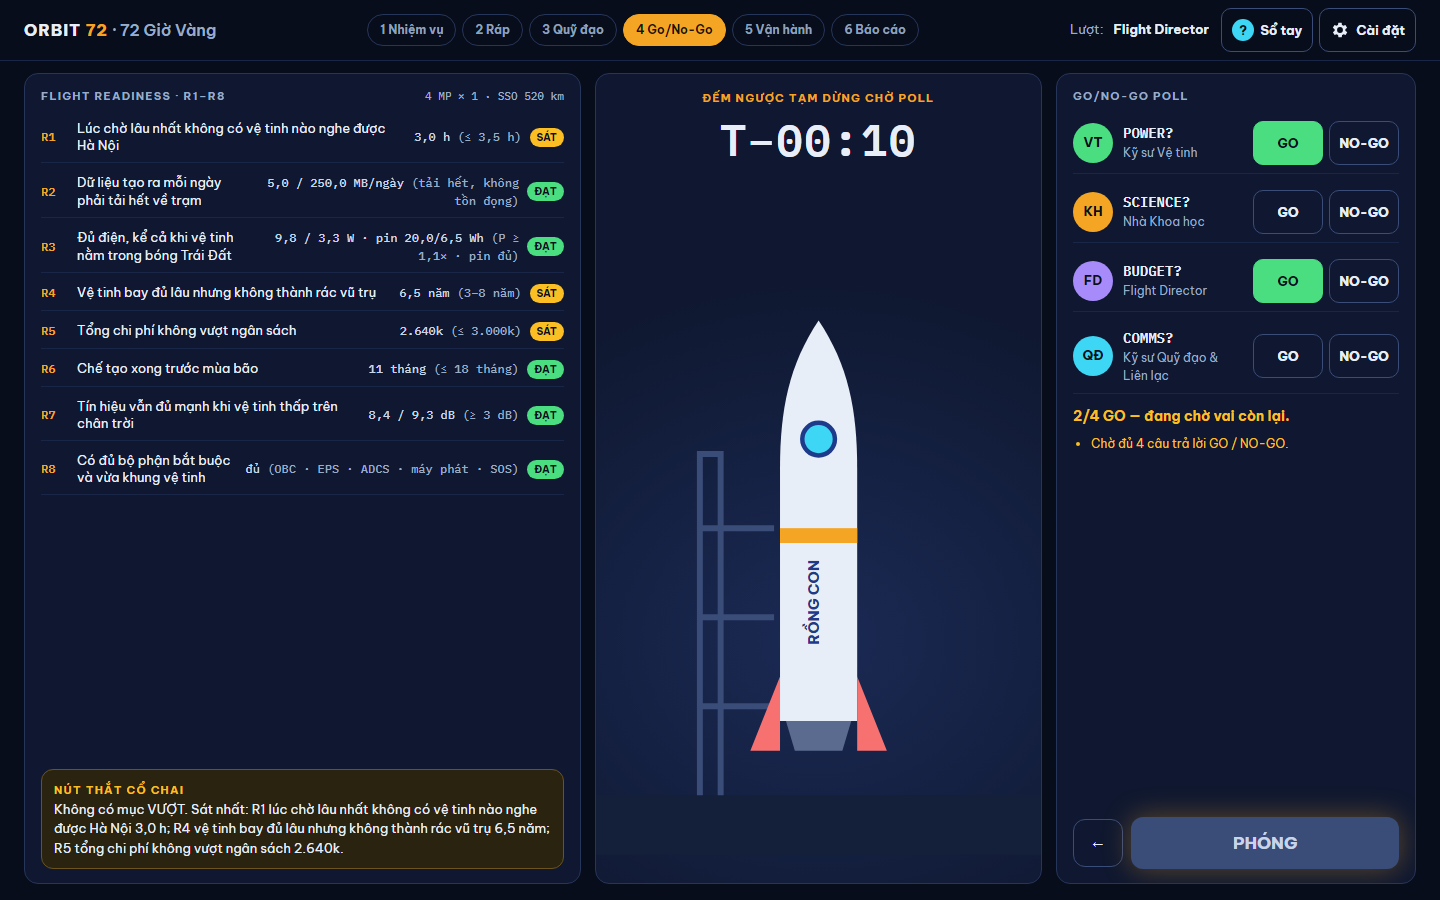
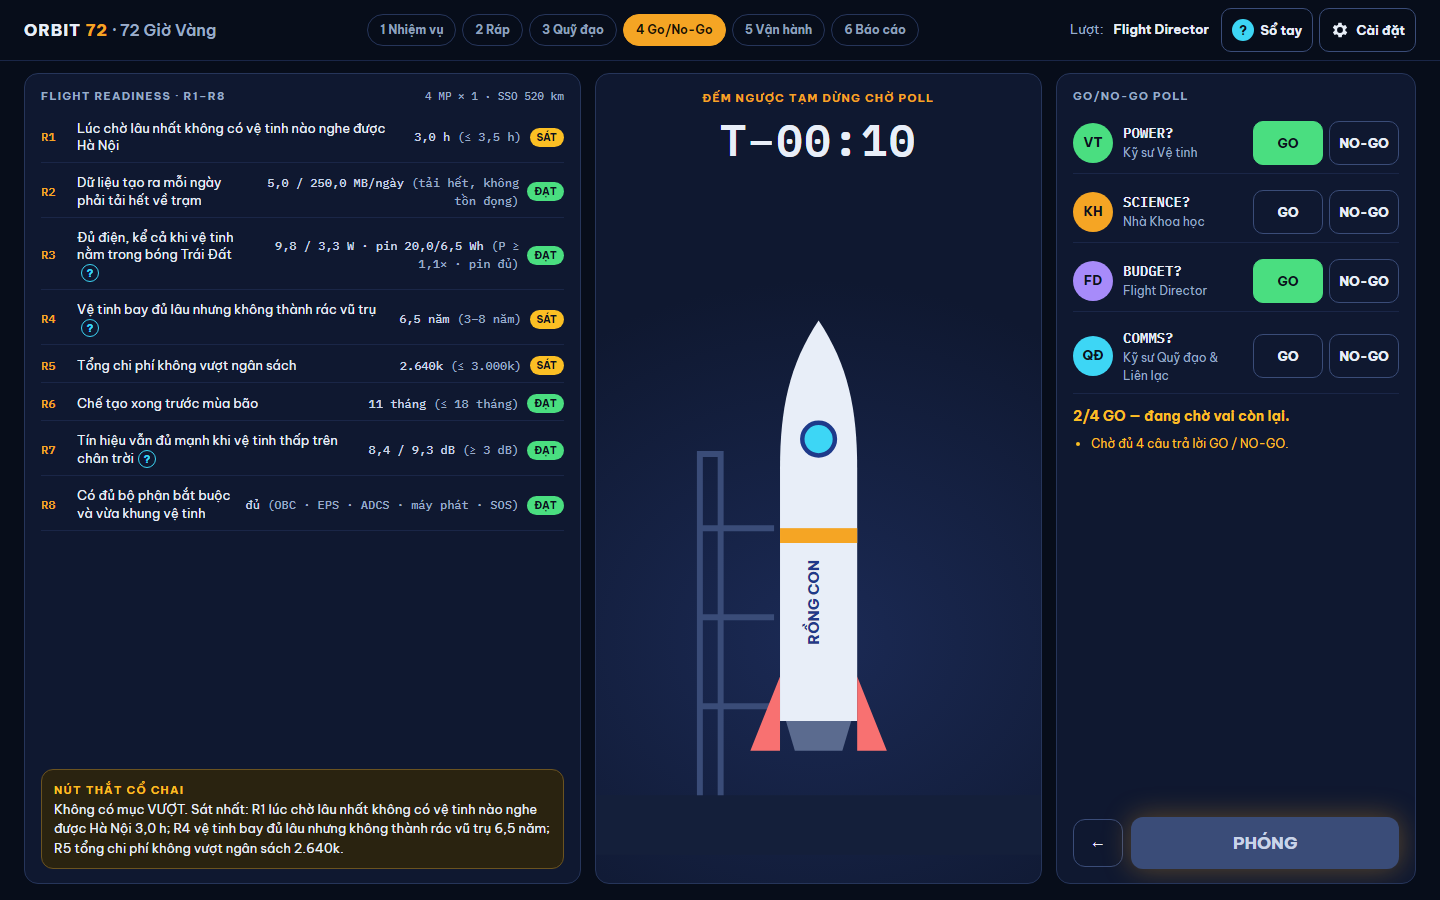
fix: final layout states + screenshots

Changed region(s): [[0.0312, 0.2489, 0.4062, 0.5911], [0.2812, 0.56, 0.3125, 0.5911]]

diff --git a/src/screens/Review.tsx b/src/screens/Review.tsx
@@ -9,6 +9,8 @@ import { PassScreen } from '../ui/PassScreen';
 import { StatusChip } from '../ui/StatusChip';
 import { TopBar } from '../ui/TopBar';
 import { useT } from '../ui/i18n';
+import { Term } from '../ui/Term';
+import type { TermId } from '../ui/labels';
 
 /** FD calls each station (SPEC §8). */
 const CALLS: { call: string; role: RoleId }[] = [
@@ -18,6 +20,9 @@ const CALLS: { call: string; role: RoleId }[] = [
   { call: 'COMMS?', role: 'QD' },
 ];
 const R_CODES: RCode[] = ['R1', 'R2', 'R3', 'R4', 'R5', 'R6', 'R7', 'R8'];
+
+/** Requirements whose plain sentence still rests on a technical term → "?" explainer. */
+const REQ_TERM: Partial<Record<string, TermId>> = { R3: 'eclipse', R4: 'lifetime', R7: 'margin' };
 
 /** Lower-case only the first letter, so proper names (Hà Nội, Trái Đất) keep their capitals. */
 const lowerFirst = (s: string) => s.charAt(0).toLowerCase() + s.slice(1);
@@ -89,7 +94,7 @@ export function Review() {
                 {r.id}
               </span>
               <span className="ready-label" style={{ fontSize: 'calc(13rem / 16)' }}>
-                {r.name}
+                {REQ_TERM[r.id] ? <Term id={REQ_TERM[r.id]!}>{r.name}</Term> : r.name}
               </span>
               <span className="mono ready-value" style={{ fontSize: 'calc(12rem / 16)', color: 'var(--soft)' }}>
                 {r.value} <span style={{ color: 'var(--muted)' }}>({r.limit})</span>

diff --git a/README.md b/README.md
@@ -19,6 +19,17 @@ Solo or pass-the-device co-op (2–4 players), two difficulty levels (Học viê
 
 For a high-school / first-year audience, v1.1 removed: the Giám đốc difficulty (launch failures, replacement launches, debris event E4, solar-max lifetimes), the Daily mission, the camera payload and flood-imaging bonus, the cloud event E3, and the parts X-band, AIS receiver, edge-processing OBC, small electric thruster and precise ADCS. The remaining 9 parts (+ deployable wings), 3 events, 3 chassis sizes and 4 inclination presets keep every SPEC §10 reference value unchanged.
 
+## Screenshots
+
+Laptop, 1440 × 900, 100 % text (S1 solution: 6U with S-band, SSO 520 km, 4 planes × 1).
+
+| | |
+|---|---|
+| ![Home: choose mode and difficulty](docs/screens/home-1440x900-100.png) **Home** | ![Brief: contract, 72 h NASA IMERG rain map, R1–R8](docs/screens/brief-1440x900-100.png) **Mission brief** |
+| ![Build: CubeSat bay and live HUD](docs/screens/build-1440x900-100.png) **Build** | ![Orbit: ground tracks, coverage and link margins](docs/screens/orbit-1440x900-100.png) **Orbit** |
+| ![Review: R1–R8 checklist and Go/No-Go poll](docs/screens/review-1440x900-100.png) **Go/No-Go** | ![Ops: Mission Control with the E1 geomagnetic-storm card](docs/screens/ops-1440x900-100.png) **Operations** |
+| ![Debrief: five stars, why-chain, CML badge, spec sheet](docs/screens/debrief-1440x900-100.png) **Debrief** | ![Share: mission patch and result card](docs/screens/share-1440x900-100.png) **Share** |
+
 ## Science & validation
 
 All constants come from [`docs/SPEC.md`](docs/SPEC.md) (derived from the GDD) and carry a provenance tag: [CT] physics, [NG] sourced, [GA] game assumption. Every [GA] assumption is listed in the in-game Guide → Science tab.
